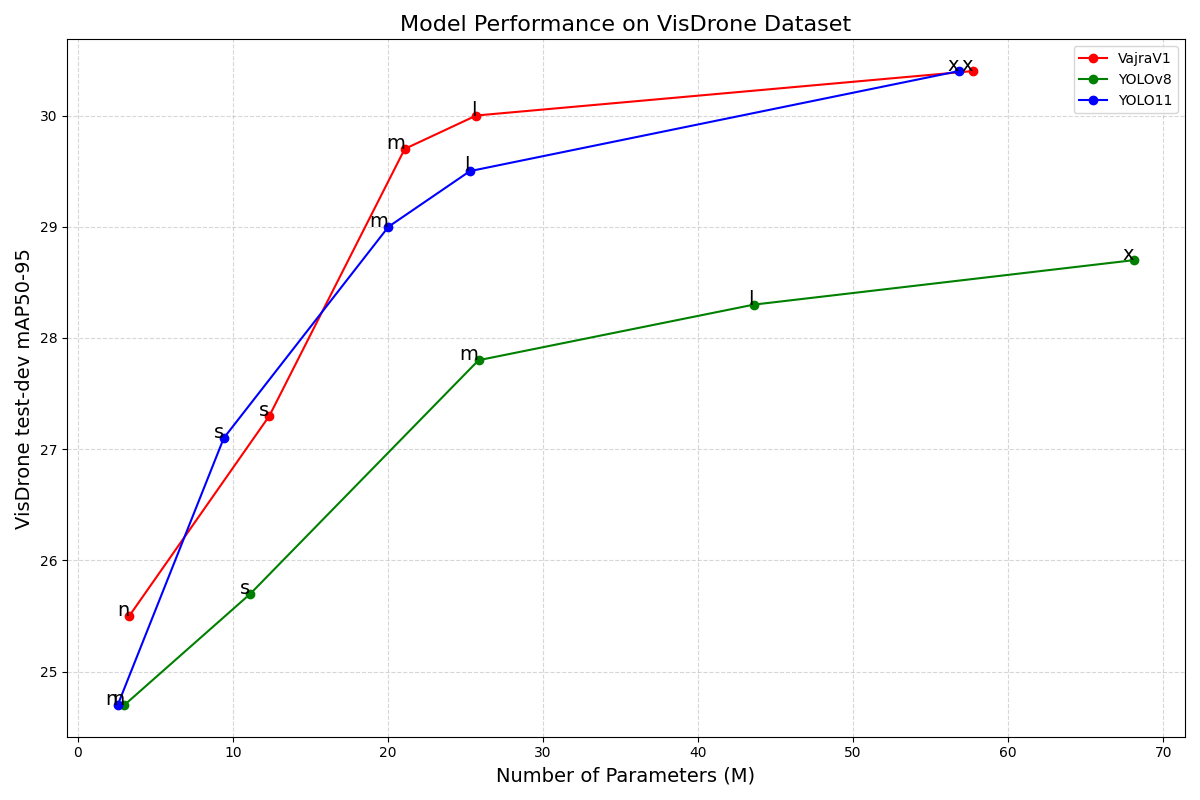
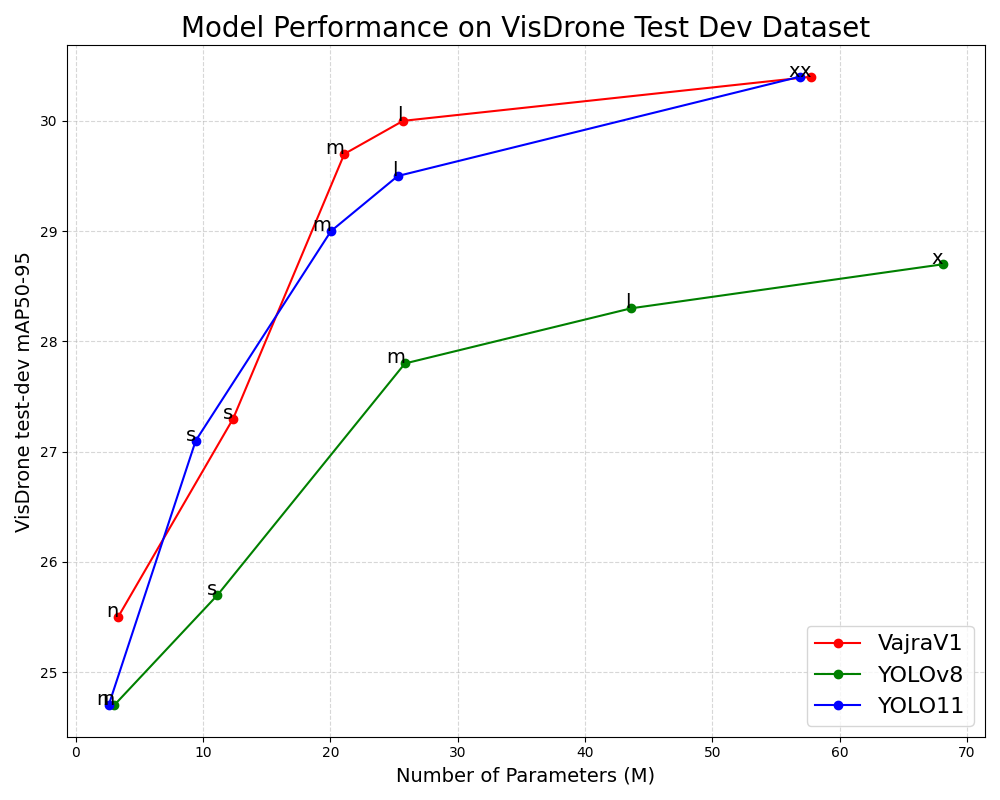
VisDrone Validation plots added

diff --git a/README.md b/README.md
@@ -9,7 +9,10 @@ tasks like object detection and tracking, instance segmentation, oriented object
 ## <div align="center">Enterprise License</div>
 To request for an Enterprise License please get in touch via [Email](mailto:namansingh2803@gmail.com)
 
-<img width="100%" src="./vajra/assets/visdrone_testdev_performance_plot.png" alt="VajraV1 performance plots test dev">
+<p align="center">
+<img width="50%" src="./vajra/assets/visdrone_testdev_performance_plot.png" alt="VajraV1 performance plot test dev">
+<img width="50%" src="./vajra/assets/visdrone_val_performance_plot.png" alt="VajraV1 performance plot val">
+</p>
 
 ## <div align="center">Performance on VisDrone Dataset</div>
 | Model                                                                                | size<br><sup>(pixels) | mAP<sup>test-dev<br>50-95 | mAP<sup>val<br>50-95 | Speed<br><sup>RTX 4090 TensorRT10 Latency<br>(ms) | params<br><sup>(M) | FLOPs<br><sup>(B) |
